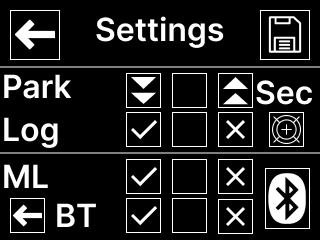
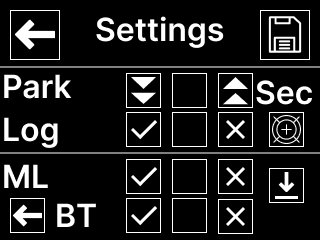
code clean up

Changed region(s): [[0.8125, 0.7, 0.9688, 0.9625]]

diff --git a/AirrideGui/lib/OTAScreen/screens/OTAScreen.cpp b/AirrideGui/lib/OTAScreen/screens/OTAScreen.cpp
@@ -1,11 +1,7 @@
 #include "OTAScreen.h"
+#include "EOTAScreenButtons.h"
 #include "OTAScreenGeometry.h"
 #include "Logger.h"
-
-#define BTN_LEFT   0
-#define BTN_RIGHT  1
-#define BTN_START  2
-#define BTN_BACK   3
 
 OTAScreen::OTAScreen(ScreenManager &screenManager, DisplayService &displayService, OTACommunication &otaCommunication)
     : BaseScreen(EScreen::OTA, SCREEN_PATH),
@@ -14,10 +10,10 @@ OTAScreen::OTAScreen(ScreenManager &screenManager, DisplayService &displayServic
       otaCommunication(otaCommunication),
       state(EOTAState::SCANNING),
       discoveredNodes() {
-    buttons.push_back(new PushButton(OTA_BTN_LEFT_X,  OTA_BTN_LEFT_Y,  OTA_BTN_LEFT_W,  OTA_BTN_LEFT_H,  BTN_LEFT,  [this](Button &b) { OnBtnLeft(b);  }));
-    buttons.push_back(new PushButton(OTA_BTN_RIGHT_X, OTA_BTN_RIGHT_Y, OTA_BTN_RIGHT_W, OTA_BTN_RIGHT_H, BTN_RIGHT, [this](Button &b) { OnBtnRight(b); }));
-    buttons.push_back(new PushButton(OTA_BTN_START_X, OTA_BTN_START_Y, OTA_BTN_START_W, OTA_BTN_START_H, BTN_START, [this](Button &b) { OnBtnStart(b); }));
-    buttons.push_back(new PushButton(OTA_BTN_BACK_X,  OTA_BTN_BACK_Y,  OTA_BTN_BACK_W,  OTA_BTN_BACK_H,  BTN_BACK,  [this](Button &b) { OnBtnBack(b);  }));
+    buttons.push_back(new PushButton(OTA_BTN_LEFT_X,  OTA_BTN_LEFT_Y,  OTA_BTN_LEFT_W,  OTA_BTN_LEFT_H,  SCROLL_LEFT,  [this](Button &b) { OnBtnLeft(b);  }));
+    buttons.push_back(new PushButton(OTA_BTN_RIGHT_X, OTA_BTN_RIGHT_Y, OTA_BTN_RIGHT_W, OTA_BTN_RIGHT_H, SCROLL_RIGHT, [this](Button &b) { OnBtnRight(b); }));
+    buttons.push_back(new PushButton(OTA_BTN_START_X, OTA_BTN_START_Y, OTA_BTN_START_W, OTA_BTN_START_H, START, [this](Button &b) { OnBtnStart(b); }));
+    buttons.push_back(new PushButton(OTA_BTN_BACK_X,  OTA_BTN_BACK_Y,  OTA_BTN_BACK_W,  OTA_BTN_BACK_H,  EXIT,  [this](Button &b) { OnBtnBack(b);  }));
 }
 
 void OTAScreen::OnSetup() {

diff --git a/AirrideGui/lib/OTAScreen/include/EOTAScreenButtons.h b/AirrideGui/lib/OTAScreen/include/EOTAScreenButtons.h
@@ -1,0 +1,11 @@
+#ifndef EOTASCREENBUTTONS_H
+#define EOTASCREENBUTTONS_H
+
+enum EOTAScreenButtons {
+    SCROLL_LEFT,
+    SCROLL_RIGHT,
+    START,
+    EXIT
+};
+
+#endif //EOTASCREENBUTTONS_H
